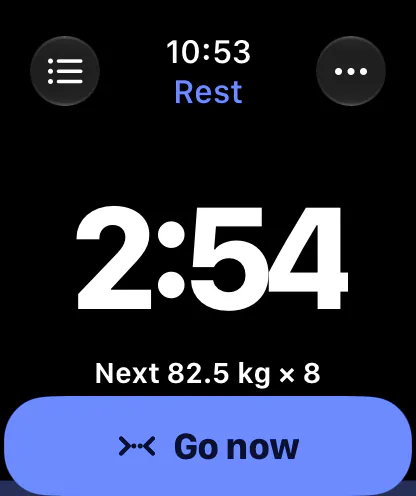
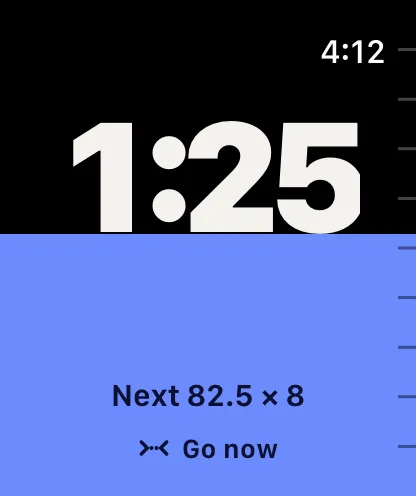
Recapture the site's app screens from the current apps
All fifteen screens in Site/public/shots, same names and sizes, taken
again now that both apps have Today's composer on every tab, screens drawn
to their boards and new Watch faces: Stadig Lift's Today, a set, rest,
Your shape, an exercise and the Watch's rating and rest; Stadig Macro's
Today at lunch with food logged, typing "chick 200", "2 eggs, toast,
coffee" logged with its Undo, What fits tonight, Plan, Your shape and the
Watch's Today and Log Again. Dark mode, status bar painted out in the
screen's ink, WebP at quality 80, 6 to 37 KB each.

The alt text follows the new screens, and the home page's Today caption
says 30 or 45 minutes, the choices the screen shows for a 62-minute
session. The site README says how to capture them again.

diff --git a/Site/src/content/site.ts b/Site/src/content/site.ts
@@ -34,29 +34,29 @@ const shot = (name: string, alt: string): Shot => ({ src: `/shots/${name}.webp`,
 export const shots = {
   liftToday: shot(
     "lift-today",
-    "Stadig Lift's Today screen: Wednesday 11 November, the next session Upper A with Barbell Bench Press and 9 more, 18 sets, about 59 minutes, a Start session button and Short on time choices of 30, 45 or 60 minutes.",
+    "Stadig Lift's Today screen: Friday 13 November, the week's days with the trained ones marked, session 4 of 4 of the assessment, Lower B, Deadlift and 3 more, 20 sets, about 62 minutes, a Start session button and Short on time choices of 30 or 45 minutes, and the scores under it: Strength 56, Endurance 97, Agility 62 and Discipline 100.",
   ),
   liftSet: shot(
     "lift-set",
-    "A set in Stadig Lift: Barbell Bench Press, 67.5 kg for 7 reps marked Now, with weight and reps in wells and three buttons, Easy, Just right and Missed.",
+    "A set in Stadig Lift: Conventional Deadlift, warm-ups done and 120 kg for 7 reps marked Now, with 50 kg a side, weight and reps in wells, and three buttons, Easy, Just right and Missed.",
   ),
   liftRest: shot(
     "lift-rest",
-    "Rest in Stadig Lift: a 2:26 countdown over a draining ruler of 2:30, with −15, +15 and Skip, and the next set, 67.5 kg for 6.",
+    "Rest in Stadig Lift after the first deadlift set, rated Just right: a 2:24 countdown over a draining ruler of 2:30, with Undo, −15, +15 and Skip, and the next set, 120 kg for 6.",
   ),
   liftShape: shot(
     "lift-shape",
-    "Your shape in Stadig Lift: five scores drawn as a hexagon, Strength 57, Endurance 99, Agility 62, Discipline 100 and Physique 77, with Vitality waiting on Stadig Macro, and a row for each score.",
+    "Your shape in Stadig Lift: five scores drawn as a hexagon, Strength 56, Endurance 97, Agility 62, Discipline 100 and Physique 77, with Vitality waiting on Stadig Macro, and a row for each score.",
   ),
   liftExercise: shot(
     "lift-exercise",
-    "Barbell Bench Press in Stadig Lift: an estimated one-rep max of 89 kg, up 3.5 kg in 2 weeks, its line over three weeks, and a strength score of 51, Novice.",
+    "Barbell Bench Press in Stadig Lift: an estimated one-rep max of 89 kg, up 3 kg in 2 weeks, its line over three weeks, a strength score of 51, Novice, and its best sets.",
   ),
-  liftWatchRate: shot("lift-watch-rate", "Stadig Lift on Apple Watch: 80 kg for 8, rated Easy, Just right or Missed."),
-  liftWatchRest: shot("lift-watch-rest", "Stadig Lift on Apple Watch: rest at 2:54, next 82.5 kg for 8, and a Go now button."),
+  liftWatchRate: shot("lift-watch-rate", "Stadig Lift on Apple Watch: the set rated with one tap, Easy, Just right or Missed, each filling a third of the face."),
+  liftWatchRest: shot("lift-watch-rest", "Stadig Lift on Apple Watch: rest at 1:25, its level rising toward go, next 82.5 for 8, and Go now."),
   macroToday: shot(
     "macro-today",
-    "Stadig Macro's Today screen: 2,200 kcal left in week 1 of a cut, protein, carbs and fat left, and four foods usually eaten around now, one tap each, above the box to add food.",
+    "Stadig Macro's Today screen at lunch: 1,299 kcal left of 2,200 in week 1 of a cut, protein, carbs and fat left, lunch on the thread (chicken breast, white rice and broccoli), and four foods usually eaten around now, one tap each, above the box to add food.",
   ),
   macroTyping: shot(
     "macro-typing",
@@ -64,11 +64,11 @@ export const shots = {
   ),
   macroLogged: shot(
     "macro-logged",
-    "Stadig Macro after typing “2 eggs, toast, coffee” and pressing Return: Egg, fried, Wheat bread, toasted and Coffee, brewed logged under the chicken breast, with Undo.",
+    "Stadig Macro after typing “2 eggs, toast, coffee” and pressing Return: Egg, fried, Wheat bread, toasted and Coffee, brewed logged together at 1:31 PM, 271 kcal with one Undo, and 1,929 kcal left.",
   ),
   macroTonight: shot(
     "macro-tonight",
-    "Stadig Macro in the evening: 1,045 kcal left, almonds and apples logged, and What fits tonight offering potatoes with salmon, leaving 323 kcal, or chicken breast with white rice, leaving 480.",
+    "Stadig Macro in the evening: 1,045 kcal left, almonds and apples at the end of the day's thread, and What fits tonight offering potatoes with salmon, leaving 323 kcal, or chicken breast with white rice, leaving 480.",
   ),
   macroShape: shot(
     "macro-shape",
@@ -76,10 +76,10 @@ export const shots = {
   ),
   macroPlan: shot(
     "macro-plan",
-    "Stadig Macro's Plan: a cut, week 1 of 4, losing 0.5% a week, at 2,200 kcal with 165 g protein, 240 g carbs and 65 g fat, the trend at −1.09 kg a week, and a Why? link.",
+    "Stadig Macro's Plan: a cut, week 1 of 4, losing 0.5% a week, at 2,200 kcal a day with 165 g protein, 240 g carbs and 65 g fat, the trend at −1.09 kg a week, faster than planned, a Why? link, and the year ahead.",
   ),
-  macroWatchToday: shot("macro-watch-today", "Stadig Macro on Apple Watch: 1,026 kcal left today, 59 g of protein left."),
-  macroWatchAgain: shot("macro-watch-again", "Stadig Macro on Apple Watch: Log Again with whey protein, 34 g, usually eaten now, and a Log button."),
+  macroWatchToday: shot("macro-watch-today", "Stadig Macro on Apple Watch: 1,738 kcal left today, 602 eaten of 2,340, 130 g of protein left, over a level filling from the foot."),
+  macroWatchAgain: shot("macro-watch-again", "Stadig Macro on Apple Watch: Log Again with Greek yogurt, 200 g, usually eaten now, and a Log button that leaves 1,620 kcal."),
 };
 
 export type Rate = { tone: "good" | "ok" | "bad" | "accent"; eyebrow: string; word: string; body: string };
@@ -377,7 +377,7 @@ export const homeFigures = {
   lift: [
     {
       label: "1 · Today",
-      caption: "Open the app and the session is already written. Short on time? It fits 30, 45 or 60 minutes.",
+      caption: "Open the app and the session is already written. Short on time? Tap 30 or 45 minutes and it fits.",
       phone: shots.liftToday,
     },
     { label: "2 · Set", caption: "Every set comes filled in. One tap logs it: Easy, Just right or Missed.", phone: shots.liftSet },

diff --git a/Site/README.md b/Site/README.md
@@ -22,6 +22,7 @@ pnpm preview
 - `src/layouts/Base.astro` carries the head: canonical, Open Graph, Twitter, theme colour, and the Organization and WebSite JSON-LD on every page. Pages add SoftwareApplication (free: `price` 0), FAQPage and BreadcrumbList.
 - `src/pages/llms.txt.ts` and `llms-full.txt.ts` follow the llms.txt convention for LLM crawlers and answer engines. `public/robots.txt` explicitly allows them.
 - `public/shots/` holds the apps' real screens, captured on the iPhone simulator (1206 × 2622) and the Watch, in dark mode: the iPhone ones resized to 624 wide (twice the largest size shown) with the status bar painted out in the screen's own ink, then WebP at quality 80, each under 60 KB. Images are cached for a year as immutable (`vercel.json`), so a new capture gets a new file name.
+  To recapture: this checkout's simulator (`Scripts/build.sh simulator`) in dark mode with `xcrun simctl status_bar <udid> override --time 9:41`, and a 46 mm Series 11 or 12 Watch simulator (416 × 496, kept as captured). Stadig Lift launches with `-inMemoryStore -seedSampleData` plus `-startSession -sessionAt set|rest`, `-tab progress -yourShape` or `-exercise barbell-bench-press`; its Watch with `-sampleContext -sampleScreen rating|rest` (`-sampleRestElapsed 80` shows the level part way). Stadig Macro launches with `-inMemoryStore -seedSampleData -seedPlan` (plus `-seedToday`, `-tab plan` or `-tab progress -showShape`), and `SIMCTL_CHILD_TZ` set to a zone where it's lunchtime, or past 5 PM for What fits tonight; its Watch with `-seedHour 10` (and `-page logAgain`). The typed screens ("chick 200", "2 eggs, toast, coffee") need a throwaway XCUITest, since no launch argument types into the composer.
 - `public/og.png` (the home page), `og-lift.png` and `og-macro.png` (one per app page, picked by slug) come from `sh scripts/og.sh` (needs `rsvg-convert`): the mark and "Stadig", a headline, a line under it and the ruler with a reading, on the ink ground. Re-run it if the mark, a name or a headline changes. The icons and `favicon.ico` were rendered from the same mark with `rsvg-convert`.
 
 ## What the site says
